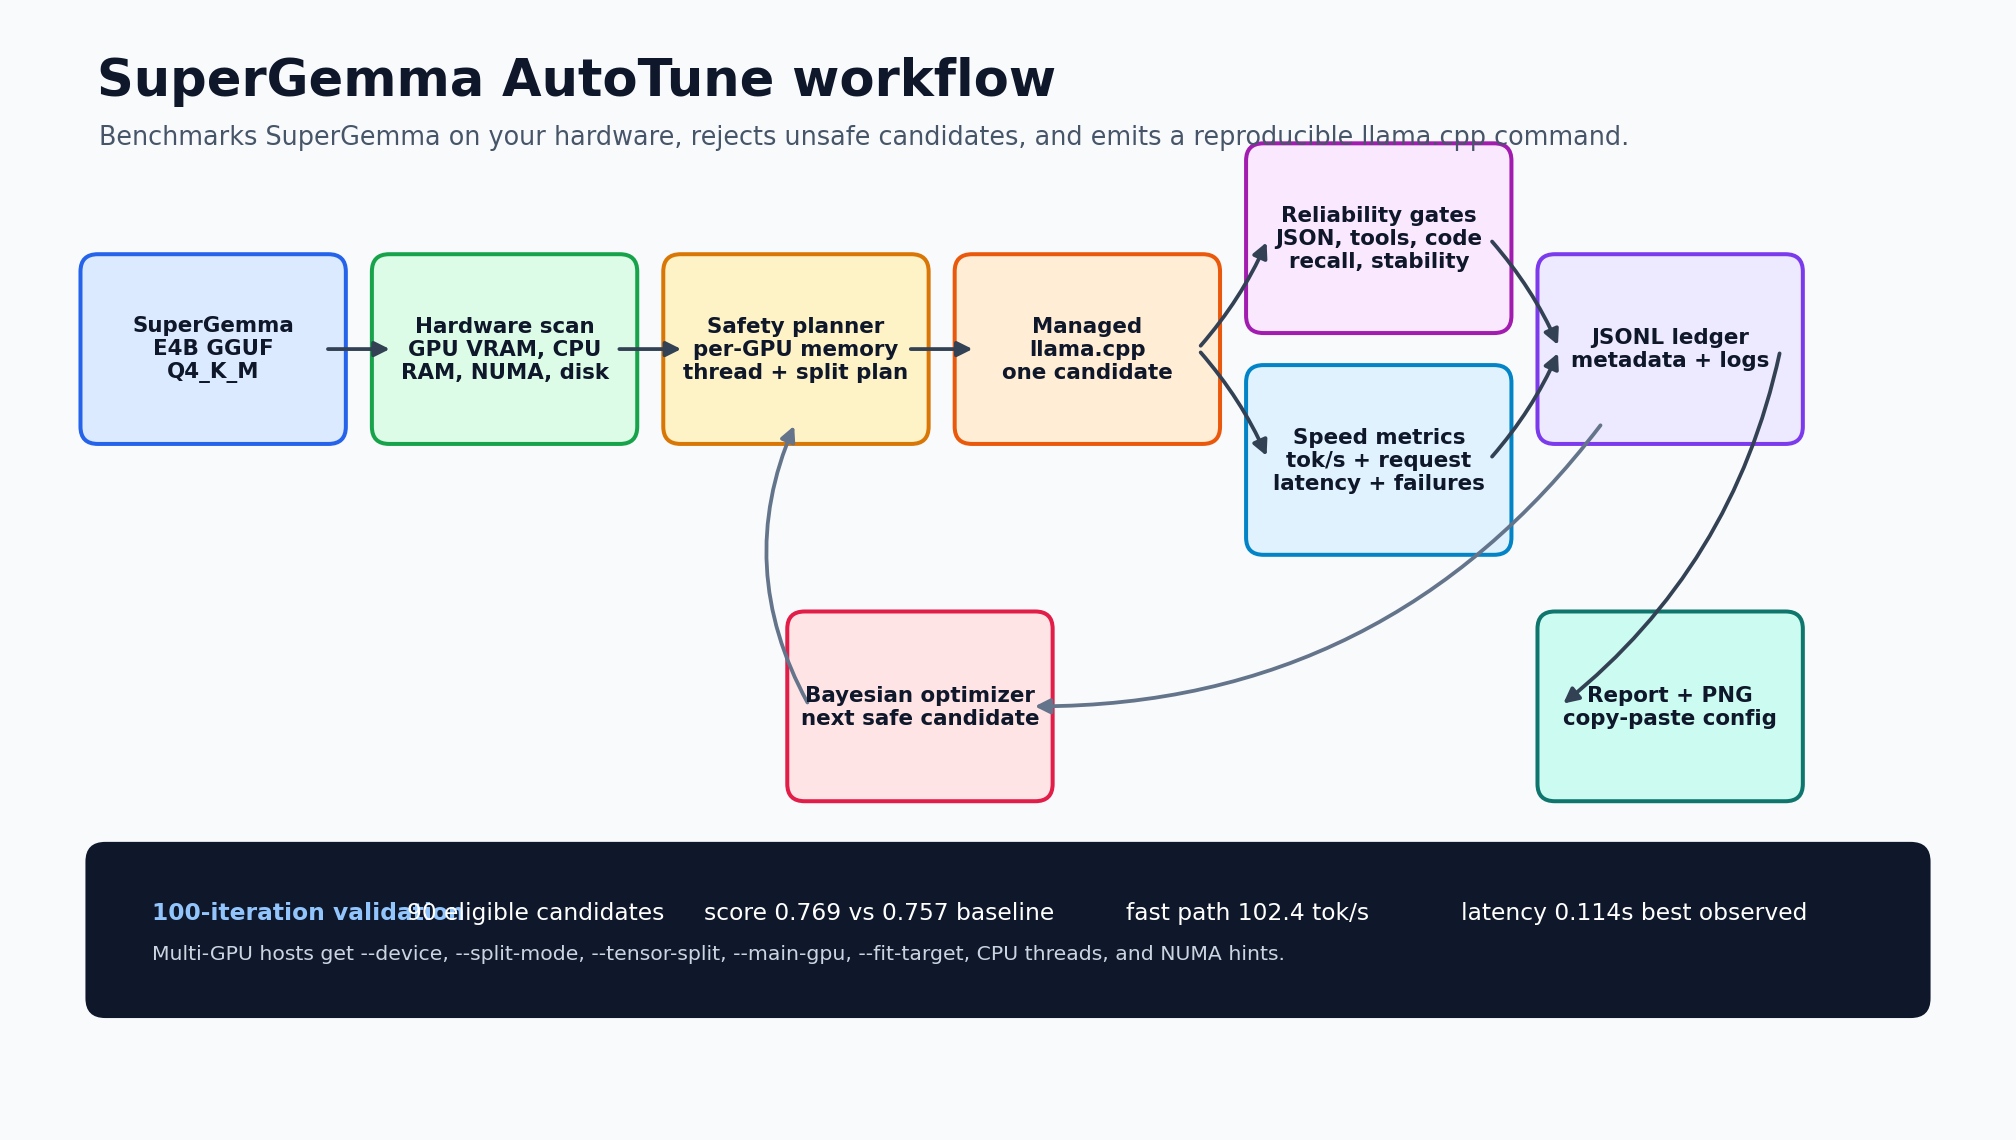
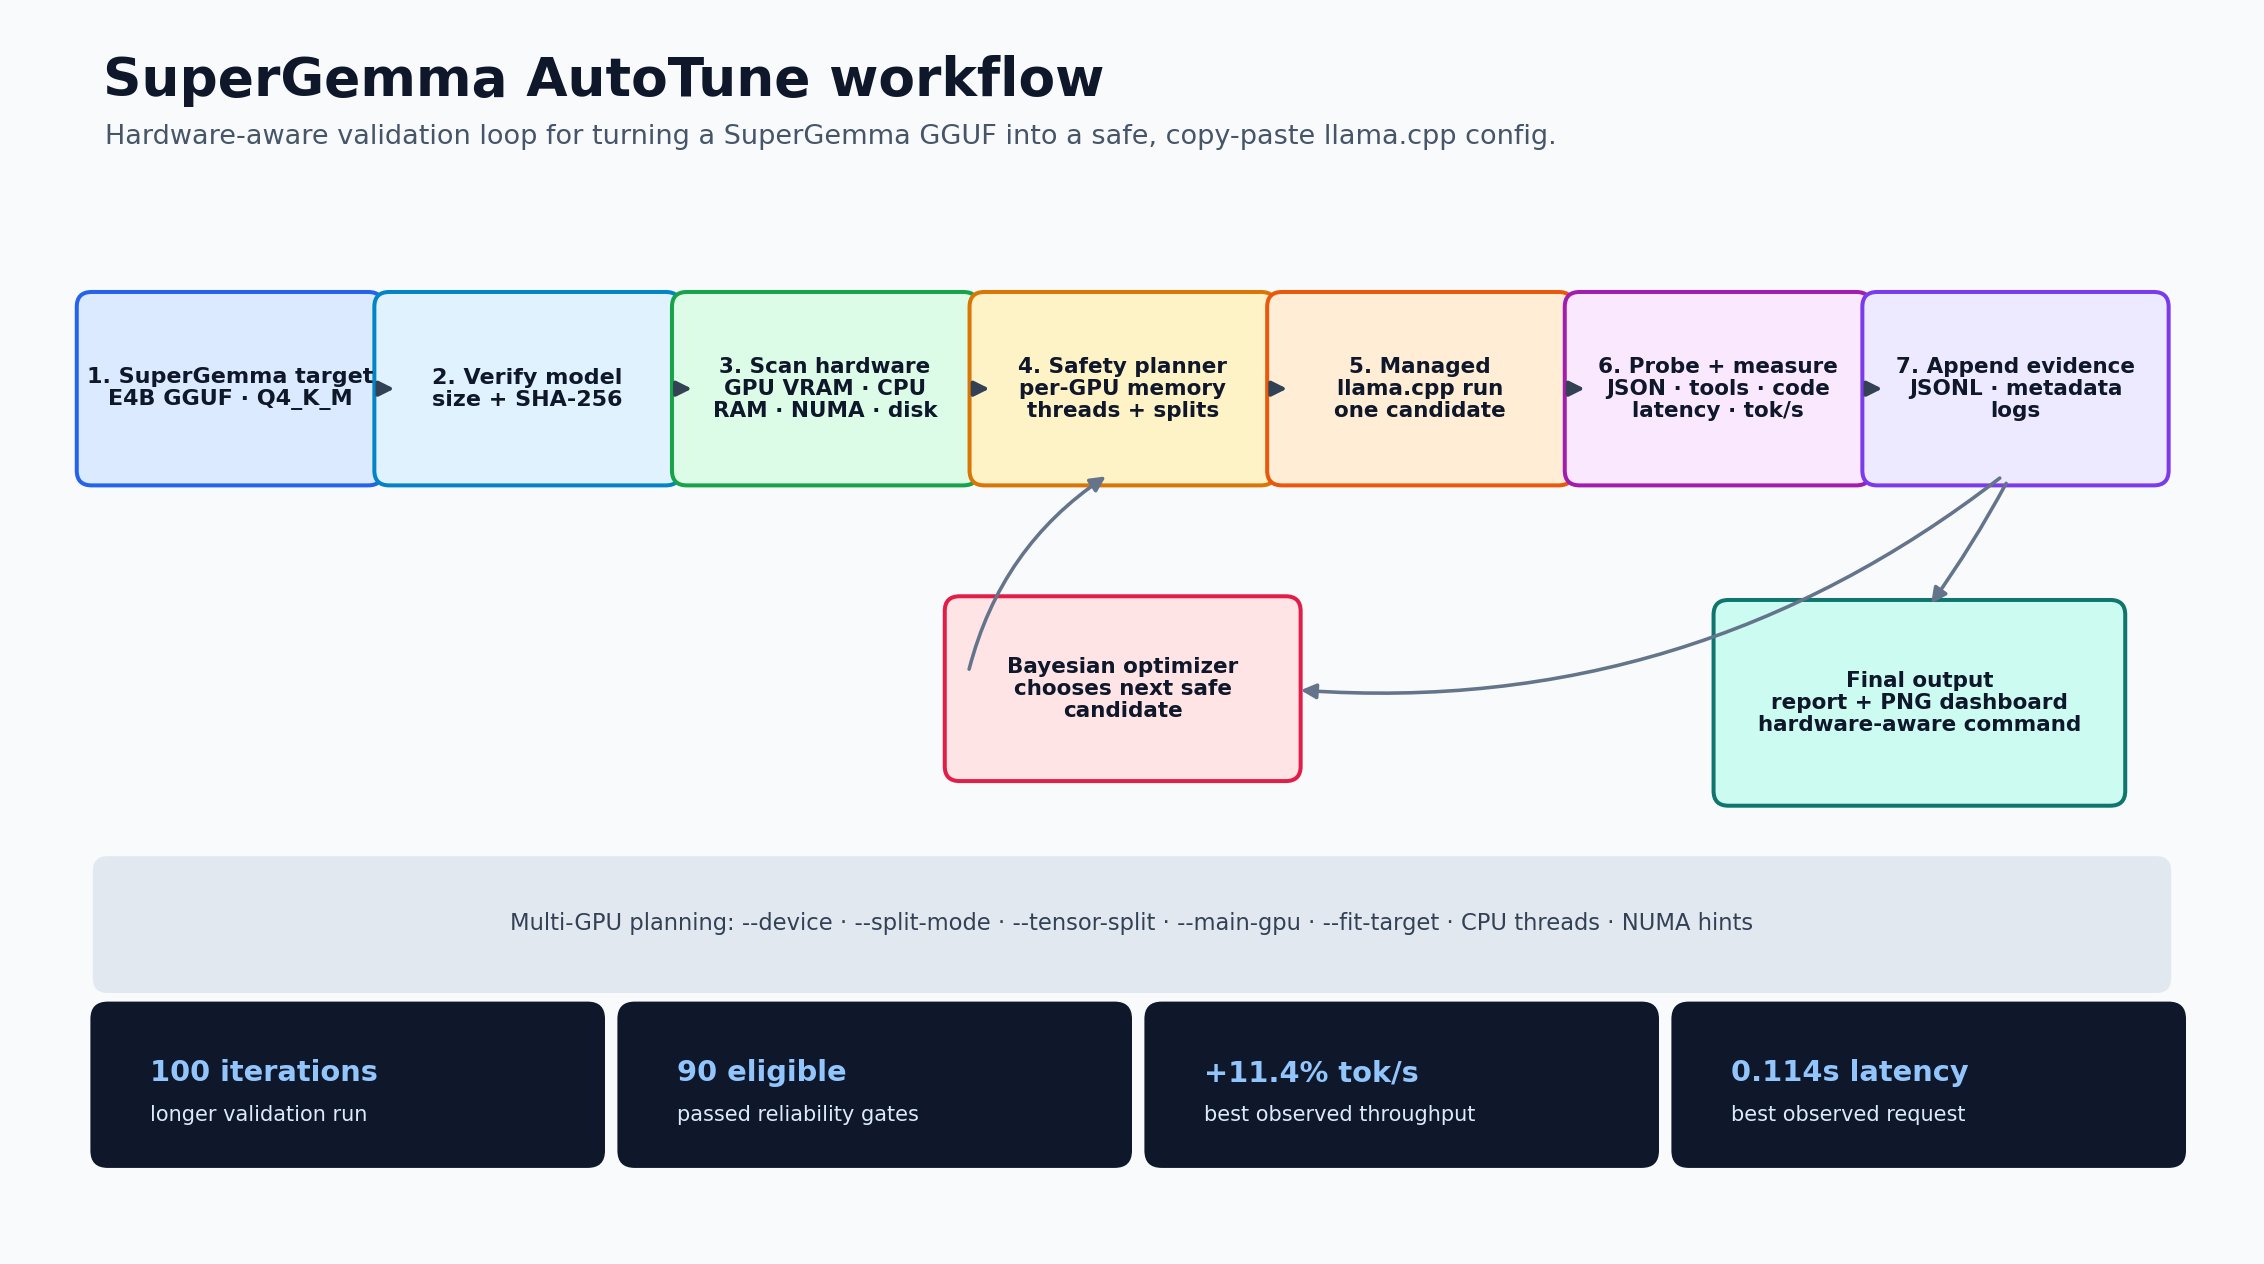
Polish workflow diagram
Improve the workflow PNG layout and remove the redundant Mermaid block from README.

diff --git a/README.md b/README.md
@@ -50,22 +50,6 @@ exported best command are in [`docs/VALIDATION.md`](docs/VALIDATION.md).
 
 ![SuperGemma AutoTune workflow](docs/assets/workflow-supergemma.png)
 
-```mermaid
-flowchart LR
-    A[SuperGemma E4B target<br/>GGUF Q4_K_M] --> B[Checksum + size verification]
-    B --> C[Hardware scan<br/>GPU VRAM, CPU threads, RAM, NUMA, disk]
-    C --> D[Safety planner<br/>per-GPU memory + split/thread plan]
-    D --> E[Managed llama.cpp<br/>one llama-server per candidate]
-    E --> F[Reliability gates<br/>JSON, tool call, code edit, recall, stability]
-    E --> G[Speed metrics<br/>tok/s, request latency, failures]
-    F --> H[JSONL ledger + metadata + logs]
-    G --> H
-    H --> I[Bayesian optimizer]
-    I --> D
-    H --> J[Report + PNG dashboard]
-    J --> K[Copy-paste hardware-aware llama.cpp config]
-```
-
 ## Quick start
 
 Install dependencies with `uv`: